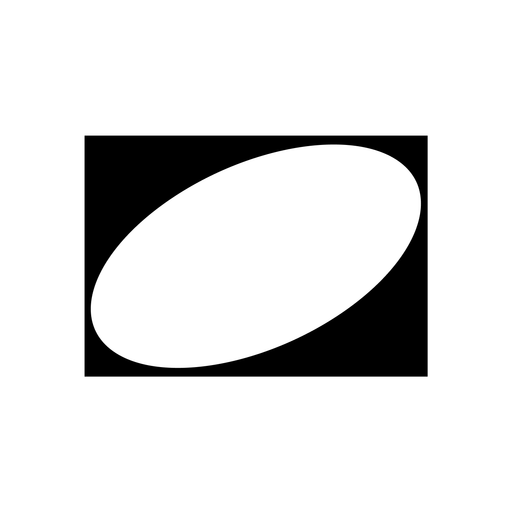
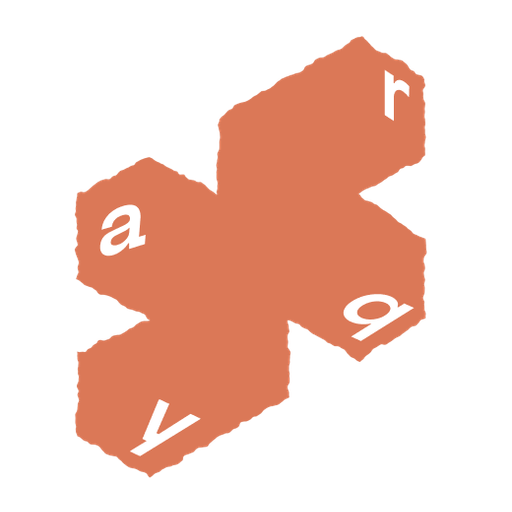
Nova marca do ArchRay: ícone terracota a·r·a·y e nome ARCHRAY
- Símbolo (BrandMark) passa a ser o ícone terracota, igual nos dois temas;
  logotipo ARCHRAY em preto (invertido no escuro).
- Capas do Index, favicons (ico 16/32/48, 512 e Apple 180) e manifesto.
- Laudo e prancha em PDF com a logo completa.

diff --git a/src/lib/exports/logo.ts b/src/lib/exports/logo.ts
@@ -1,3 +1,3 @@
-/** Logotipo "archray" (PNG, preto sobre transparente) para o laudo e o carimbo da prancha. Gerado de public/brand. */
+/** Logotipo do ArchRay (ícone terracota + "ARCHRAY", PNG transparente) para o laudo e o carimbo da prancha. Gerado de public/brand/logo-completa.png. */
 export const LOGO_PNG_BASE64 =
[2 lines of base64/hex data omitted]

diff --git a/src/components/brand.tsx b/src/components/brand.tsx
@@ -1,24 +1,20 @@
 import { cn } from "@/lib/utils";
 
 /**
- * Traçado do símbolo do ArchRay: retângulo com a elipse inclinada VAZADA (transparente), num
- * único caminho com regra par-ímpar — o furo mostra o que estiver atrás, em qualquer fundo.
+ * Símbolo do ArchRay: o "x" terracota com as letras a·r·a·y (public/brand/icone.png).
+ * É o mesmo nos temas claro e escuro; a versão preta (icone-preta) fica para impressão.
  */
-export const MARK_PATH = "M0 0H723V508H0Z M698.20 97.18A372.4 193.7 -24.82 1 0 22.20 409.82A372.4 193.7 -24.82 1 0 698.20 97.18Z";
-
-/** Símbolo do ArchRay na cor do texto: preto no tema claro, branco no escuro. */
 export function BrandMark({ className }: { className?: string }) {
   return (
-    <svg viewBox="0 0 723 508" aria-hidden className={cn("h-6 w-auto text-foreground", className)}>
-      <path d={MARK_PATH} fill="currentColor" fillRule="evenodd" />
-    </svg>
+    // eslint-disable-next-line @next/next/no-img-element
+    <img src="/brand/icone.png" alt="" aria-hidden width={374} height={458} className={cn("h-7 w-auto shrink-0", className)} />
   );
 }
 
-/** Logotipo "archray" (preto; invertido no tema escuro). */
+/** Logotipo "ARCHRAY" (preto; invertido no tema escuro). */
 export function BrandLogo({ className }: { className?: string }) {
   return (
     // eslint-disable-next-line @next/next/no-img-element
-    <img src="/brand/logo.png" alt="ArchRay" width={470} height={120} className={cn("h-6 w-auto dark:invert", className)} />
+    <img src="/brand/logo.png" alt="ArchRay" width={295} height={45} className={cn("h-4 w-auto dark:invert", className)} />
   );
 }

diff --git a/src/components/app-nav.tsx b/src/components/app-nav.tsx
@@ -179,8 +179,8 @@ function NavContent({
           aria-label="ArchRay — início"
           className={cn("flex h-9 items-center rounded-lg hover:bg-sidebar-accent", collapsed ? "w-9 justify-center" : "gap-2 px-2")}
         >
-          <BrandMark className="h-[18px]" />
-          {!collapsed && <BrandLogo className="h-[17px]" />}
+          <BrandMark className="h-[26px]" />
+          {!collapsed && <BrandLogo className="h-[13px]" />}
         </Link>
         <div className={cn("flex items-center gap-0.5", collapsed && "flex-col")}>
           <Link href="/?buscar=1" onClick={onNavigate} aria-label="Buscar" className="grid size-8 place-items-center rounded-lg text-sidebar-foreground/70 hover:bg-sidebar-accent hover:text-sidebar-foreground">
@@ -294,8 +294,8 @@ export function MobileBar({ user, recent }: { user: SessionUser; recent: Recent 
       <button aria-label="Menu" onClick={() => setOpen(true)} className="-ml-1 grid size-9 place-items-center rounded-lg hover:bg-muted">
         <Menu className="size-5" />
       </button>
-      <BrandMark className="h-4" />
-      <BrandLogo className="h-[17px]" />
+      <BrandMark className="h-6" />
+      <BrandLogo className="h-[12px]" />
       <Sheet open={open} onOpenChange={setOpen}>
         <SheetContent side="left" className="w-72 bg-sidebar p-0">
           <SheetTitle className="sr-only">Menu</SheetTitle>

diff --git a/src/app/(index)/post-card.tsx b/src/app/(index)/post-card.tsx
@@ -1,5 +1,4 @@
 import Link from "next/link";
-import { MARK_PATH } from "@/components/brand";
 import { fmtPostDate, type Post } from "@/lib/updates";
 import type { Lang } from "@/lib/site/lang";
 
@@ -19,9 +18,8 @@ export function PostCard({ post, lang = "pt" }: { post: Post; lang?: Lang }) {
 export function Cover({ title, large }: { title: string; large?: boolean }) {
   return (
     <div className="relative grid aspect-[16/10] place-items-center overflow-hidden rounded-2xl bg-muted" aria-label={title}>
-      <svg viewBox="0 0 723 508" aria-hidden className={large ? "w-[34%]" : "w-[30%]"}>
-        <path d={MARK_PATH} fill="var(--foreground)" fillRule="evenodd" />
-      </svg>
+      {/* eslint-disable-next-line @next/next/no-img-element */}
+      <img src="/brand/icone.png" alt="" aria-hidden width={374} height={458} className={large ? "relative z-10 h-[46%] w-auto" : "relative z-10 h-[40%] w-auto"} />
       <div className="pointer-events-none absolute inset-0 bg-[linear-gradient(to_right,var(--border)_1px,transparent_1px),linear-gradient(to_bottom,var(--border)_1px,transparent_1px)] bg-[size:48px_48px] opacity-60 mix-blend-multiply dark:mix-blend-screen" />
     </div>
   );

diff --git a/src/components/site/blocks.tsx b/src/components/site/blocks.tsx
@@ -1,5 +1,4 @@
 import Link from "next/link";
-import { MARK_PATH } from "@/components/brand";
 import Image from "next/image";
 import { ArrowRight } from "lucide-react";
 import { cn } from "@/lib/utils";
@@ -37,9 +36,8 @@ export function SiteCover({ className }: { className?: string }) {
   return (
     <div className={cn("relative grid place-items-center overflow-hidden bg-[var(--site-band)]", className)} aria-hidden>
       <div className="absolute inset-0 bg-[linear-gradient(to_right,var(--site-grid)_1px,transparent_1px),linear-gradient(to_bottom,var(--site-grid)_1px,transparent_1px)] bg-[size:28px_28px]" />
-      <svg viewBox="0 0 723 508" className="relative w-[34%] transition-transform duration-500 group-hover:scale-105">
-        <path d={MARK_PATH} fill="var(--foreground)" fillRule="evenodd" />
-      </svg>
+      {/* eslint-disable-next-line @next/next/no-img-element */}
+      <img src="/brand/icone.png" alt="" width={374} height={458} className="relative h-[42%] w-auto transition-transform duration-500 group-hover:scale-105" />
     </div>
   );
 }

diff --git a/src/components/site/site-header.tsx b/src/components/site/site-header.tsx
@@ -31,8 +31,8 @@ export async function SiteHeader({ rootId, lang }: { rootId: string; lang: Lang 
           ))}
         </nav>
         <Link href="/" aria-label={en ? "ArchRay — home" : "ArchRay — início"} className="col-start-1 row-start-1 flex shrink-0 items-center gap-2 justify-self-start lg:col-start-2 lg:justify-self-center">
-          <BrandMark className="h-[19px] shrink-0" />
-          <BrandLogo className="site-logo h-[18px]" />
+          <BrandMark className="h-[30px]" />
+          <BrandLogo className="site-logo h-[15px]" />
         </Link>
         <div className="col-start-3 row-start-1 flex items-center justify-end gap-1.5">
           <SiteLangToggle lang={lang} className="hidden sm:flex" />

diff --git a/src/app/login/auth-shell.tsx b/src/app/login/auth-shell.tsx
@@ -19,8 +19,8 @@ export function AuthShell({
       <div className="w-full max-w-[400px]">
         <div className="mb-8 flex flex-col items-center text-center">
           <span className="mb-6 flex items-center gap-3">
-            <BrandMark className="h-7" />
-            <BrandLogo className="h-7" />
+            <BrandMark className="h-10" />
+            <BrandLogo className="h-[19px]" />
           </span>
           <p className="mb-1 text-[13px] text-muted-foreground">{eyebrow}</p>
           <h1 className="font-serif text-[32px] leading-tight font-normal tracking-[-0.01em]">{title}</h1>

diff --git a/src/components/site/site-footer.tsx b/src/components/site/site-footer.tsx
@@ -86,8 +86,8 @@ export function SiteFooter({ lang }: { lang: Lang }) {
       <div className="grid gap-12 lg:grid-cols-[1fr_2fr] lg:gap-16">
         <div>
           <Link href="/" className="flex items-center gap-2.5 text-foreground" aria-label="ArchRay">
-            <BrandMark className="h-[24px]" />
-            <BrandLogo className="site-logo h-[23px]" />
+            <BrandMark className="h-[40px]" />
+            <BrandLogo className="site-logo h-[19px]" />
           </Link>
           <p className="mt-5 max-w-xs text-[14px] leading-6 text-muted-foreground">
             {en

diff --git a/src/components/tour.tsx b/src/components/tour.tsx
@@ -111,7 +111,7 @@ export function Tour({ autoStart }: { autoStart: boolean }) {
         <button onClick={finish} aria-label="Fechar tour" className="absolute top-3 right-3 text-muted-foreground hover:text-foreground">
           <X className="size-4" />
         </button>
-        {i === 0 && <BrandMark className="mb-3 h-6" />}
+        {i === 0 && <BrandMark className="mb-3 h-9" />}
         <p className="mb-1 text-[12px] text-muted-foreground">
           {i + 1} de {STEPS.length}
         </p>

diff --git a/src/app/manifest.ts b/src/app/manifest.ts
@@ -11,8 +11,8 @@ export default function manifest(): MetadataRoute.Manifest {
     scope: "/",
     display: "standalone",
     orientation: "any",
-    background_color: "#ffffff",
-    theme_color: "#0a0a0a",
+    background_color: "#faf9f5",
+    theme_color: "#faf9f5",
     icons: [
       { src: "/icon.png", sizes: "512x512", type: "image/png", purpose: "any" },
       { src: "/apple-icon.png", sizes: "180x180", type: "image/png" },

diff --git a/CLAUDE.md b/CLAUDE.md
@@ -29,8 +29,7 @@ As rotas continuam em `/bens/...` e `/ortofotos/...` (nomes internos antigos).
   Serif 4 em manchetes e títulos de página (`h-display`, `font-serif`). Botões com raio de 10 px.
   Site público: tokens próprios em `src/components/site/site.css` (claro por padrão, `.site-dark`
   opcional, `.site-ink` = faixa escura do rodapé), componentes `a-pill`/`a-btn`/`a-btn-2`/`a-card`/
-  `a-tag`/`a-title`/`a-serif` e títulos padronizados por regra. Marca em `src/components/brand.tsx`
-  + `public/brand`. Barra lateral recolhível
+  `a-tag`/`a-title`/`a-serif` e títulos padronizados por regra. Marca (desde 2026-11-02): ícone terracota em "x" com a·r·a·y (`public/brand/icone.png`) + nome ARCHRAY (`logo.png`; completas em `logo-completa*.png`, usadas nos PDFs). Componentes em `src/components/brand.tsx`; favicons gerados por `.cache/favicons.mjs`. Barra lateral recolhível
   (cookie `oraclo_sidebar`, ver `src/lib/ui-prefs.ts`).
 - Neon Postgres + Drizzle (`src/lib/db/schema.ts`). `npm run db:push` aplica o schema.
 - Dev: `npm run dev` → porta **3022** (entrada `oraclo` em `A:\Claude Code\Velo\.claude\launch.json`).
